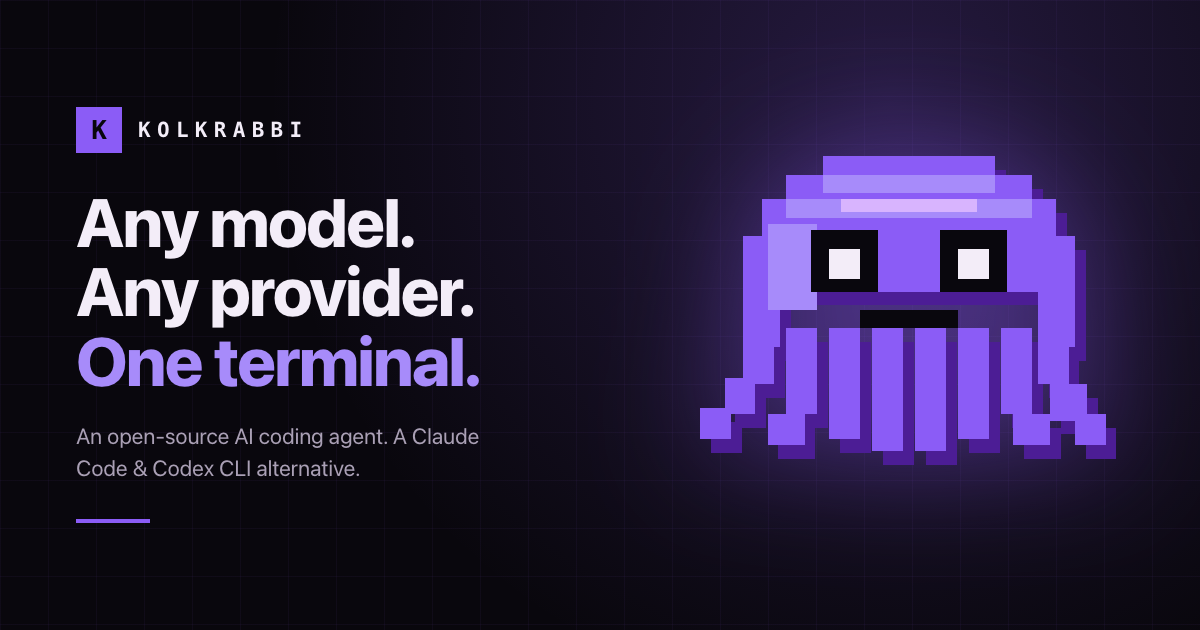
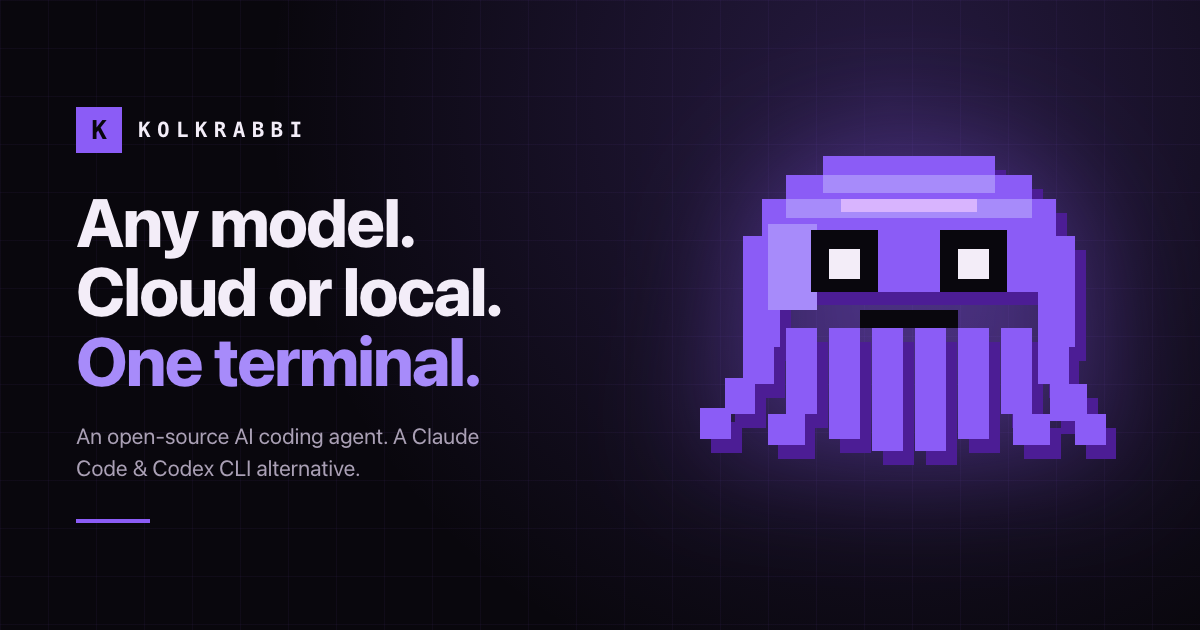
the subscription pages say what a subscription does not get you
The README and the capabilities page both state that a session still
expects a gateway key even when a Claude or ChatGPT plan answers the
turns. All three comparison pages sold "both subscriptions, one
terminal" without it, which is the kind of omission a reader only finds
out about after installing. The caveat is now in each subscription card
and in llms.txt, and a check fails any comparison page that mentions a
subscription without it.

Two smaller corrections in the same sweep. The pages claimed both
subscriptions could be used "in the same session"; what the capabilities
page actually asserts is switching between a gateway model and a plan,
mid-session. Two plans trading places looks likely from the same
machinery but is not documented, so the pages now claim exactly what the
project claims. And the link-preview card said "Any provider" while the
provider wall carries fourteen tiles, eight of them "No adapter yet" --
true of the README's tagline, but on an image with no wall beside it, it
promises something the site then contradicts. The card says "Any model.
Cloud or local. One terminal." now, and both halves work today.

Checked and left: "under 9 MB" against 8,969,330 measured bytes, and
"milliseconds to start" against a 5.3 ms p50.

Claude-Session: https://claude.ai/code/session_015RSPFsc4SWpkxTXfLBuuG2

Changed region(s): [[0.0617, 0.4222, 0.4317, 0.5429]]

diff --git a/site/compare/opencode.html b/site/compare/opencode.html
@@ -16,7 +16,7 @@
   <meta property="og:image" content="https://kolkrabbi.francomichetti.com/og.png">
   <meta property="og:image:width" content="1200">
   <meta property="og:image:height" content="630">
-  <meta property="og:image:alt" content="Kolkrabbi: any model, any provider, one terminal. A blocky purple pixel-art octopus.">
+  <meta property="og:image:alt" content="Kolkrabbi: any model, cloud or local, one terminal. A blocky purple pixel-art octopus.">
   <meta name="twitter:card" content="summary_large_image">
   <title>Kolkrabbi vs OpenCode — model-agnostic terminal coding agents compared</title>
   <link rel="icon" href="/favicon.svg" type="image/svg+xml">
@@ -122,7 +122,7 @@
         <article class="spec-card" data-status="available">
           <div class="spec-meta"><span class="status-badge">Kolkrabbi has it</span><span>SUBSCRIPTIONS</span></div>
           <h3>Both subscriptions, one terminal</h3>
-          <p>Kolkrabbi runs turns on your Claude plan through your own <code>claude</code> CLI and on your ChatGPT plan through your own Codex CLI, without ever holding a credential. OpenCode's own documentation says its Claude Pro/Max sign-in was removed in 1.3.0; it offers ChatGPT Plus, GitHub Copilot and GitLab Duo.</p>
+          <p>Kolkrabbi runs turns on your Claude plan through your own <code>claude</code> CLI and on your ChatGPT plan through your own Codex CLI, without ever holding a credential. OpenCode's own documentation says its Claude Pro/Max sign-in was removed in 1.3.0; it offers ChatGPT Plus, GitHub Copilot and GitLab Duo. One caveat, because it is the first thing you would hit: starting a session still expects a gateway key even when a plan answers the turns. That is on the list to remove, not a decision.</p>
         </article>
         <article class="spec-card" data-status="available">
           <div class="spec-meta"><span class="status-badge">Kolkrabbi has it</span><span>EFFORT</span></div>

diff --git a/site/compare/claude-code.html b/site/compare/claude-code.html
@@ -16,7 +16,7 @@
   <meta property="og:image" content="https://kolkrabbi.francomichetti.com/og.png">
   <meta property="og:image:width" content="1200">
   <meta property="og:image:height" content="630">
-  <meta property="og:image:alt" content="Kolkrabbi: any model, any provider, one terminal. A blocky purple pixel-art octopus.">
+  <meta property="og:image:alt" content="Kolkrabbi: any model, cloud or local, one terminal. A blocky purple pixel-art octopus.">
   <meta name="twitter:card" content="summary_large_image">
   <title>Kolkrabbi vs Claude Code — an open-source, model-agnostic alternative</title>
   <link rel="icon" href="/favicon.svg" type="image/svg+xml">
@@ -127,7 +127,7 @@
         <article class="spec-card" data-status="available">
           <div class="spec-meta"><span class="status-badge">Kolkrabbi has it</span><span>SUBSCRIPTIONS</span></div>
           <h3>Both subscriptions, one terminal</h3>
-          <p>If you pay for Claude and for ChatGPT, Kolkrabbi can use both in the same session. It never sees, stores or refreshes either credential: each vendor's own CLI does the login, and Kolkrabbi drives that CLI as a subprocess.</p>
+          <p>If you pay for Claude and for ChatGPT, Kolkrabbi can run turns on either, and switching between a gateway model and a plan mid-session keeps the transcript and the project context. It never sees, stores or refreshes either credential: each vendor's own CLI does the login, and Kolkrabbi drives that CLI as a subprocess. One caveat, because it is the first thing you would hit: starting a session still expects a gateway key even when a plan answers the turns. That is on the list to remove, not a decision.</p>
         </article>
         <article class="spec-card" data-status="available">
           <div class="spec-meta"><span class="status-badge">Kolkrabbi has it</span><span>EFFORT</span></div>

diff --git a/site/compare/codex-cli.html b/site/compare/codex-cli.html
@@ -16,7 +16,7 @@
   <meta property="og:image" content="https://kolkrabbi.francomichetti.com/og.png">
   <meta property="og:image:width" content="1200">
   <meta property="og:image:height" content="630">
-  <meta property="og:image:alt" content="Kolkrabbi: any model, any provider, one terminal. A blocky purple pixel-art octopus.">
+  <meta property="og:image:alt" content="Kolkrabbi: any model, cloud or local, one terminal. A blocky purple pixel-art octopus.">
   <meta name="twitter:card" content="summary_large_image">
   <title>Kolkrabbi vs Codex CLI — open-source terminal coding agents compared</title>
   <link rel="icon" href="/favicon.svg" type="image/svg+xml">
@@ -122,7 +122,7 @@
         <article class="spec-card" data-status="available">
           <div class="spec-meta"><span class="status-badge">Kolkrabbi has it</span><span>SUBSCRIPTIONS</span></div>
           <h3>Both subscriptions, one terminal</h3>
-          <p>Codex uses your ChatGPT plan. Kolkrabbi can use your ChatGPT plan <em>and</em> your Claude plan in the same session, by driving each vendor's own CLI as a subprocess. It never sees or stores either credential.</p>
+          <p>Codex uses your ChatGPT plan. Kolkrabbi can run turns on your ChatGPT plan <em>and</em> on your Claude plan, by driving each vendor's own CLI as a subprocess, and a gateway model and a plan can trade places mid-session. It never sees or stores either credential. One caveat, because it is the first thing you would hit: starting a session still expects a gateway key even when a plan answers the turns. That is on the list to remove, not a decision.</p>
         </article>
         <article class="spec-card" data-status="available">
           <div class="spec-meta"><span class="status-badge">Kolkrabbi has it</span><span>EFFORT</span></div>

diff --git a/site/local-ai-coding-agent.html b/site/local-ai-coding-agent.html
@@ -16,7 +16,7 @@
   <meta property="og:image" content="https://kolkrabbi.francomichetti.com/og.png">
   <meta property="og:image:width" content="1200">
   <meta property="og:image:height" content="630">
-  <meta property="og:image:alt" content="Kolkrabbi: any model, any provider, one terminal. A blocky purple pixel-art octopus.">
+  <meta property="og:image:alt" content="Kolkrabbi: any model, cloud or local, one terminal. A blocky purple pixel-art octopus.">
   <meta name="twitter:card" content="summary_large_image">
   <title>Local AI coding agent — run Kolkrabbi on Ollama, vLLM or any local model</title>
   <link rel="icon" href="/favicon.svg" type="image/svg+xml">

diff --git a/site/openrouter-coding-agent.html b/site/openrouter-coding-agent.html
@@ -16,7 +16,7 @@
   <meta property="og:image" content="https://kolkrabbi.francomichetti.com/og.png">
   <meta property="og:image:width" content="1200">
   <meta property="og:image:height" content="630">
-  <meta property="og:image:alt" content="Kolkrabbi: any model, any provider, one terminal. A blocky purple pixel-art octopus.">
+  <meta property="og:image:alt" content="Kolkrabbi: any model, cloud or local, one terminal. A blocky purple pixel-art octopus.">
   <meta name="twitter:card" content="summary_large_image">
   <title>OpenRouter coding CLI — every model behind one gateway, in your terminal</title>
   <link rel="icon" href="/favicon.svg" type="image/svg+xml">

diff --git a/site/ollama-coding-agent.html b/site/ollama-coding-agent.html
@@ -16,7 +16,7 @@
   <meta property="og:image" content="https://kolkrabbi.francomichetti.com/og.png">
   <meta property="og:image:width" content="1200">
   <meta property="og:image:height" content="630">
-  <meta property="og:image:alt" content="Kolkrabbi: any model, any provider, one terminal. A blocky purple pixel-art octopus.">
+  <meta property="og:image:alt" content="Kolkrabbi: any model, cloud or local, one terminal. A blocky purple pixel-art octopus.">
   <meta name="twitter:card" content="summary_large_image">
   <title>Ollama coding agent — a terminal agent on your own models, step by step</title>
   <link rel="icon" href="/favicon.svg" type="image/svg+xml">

diff --git a/site/index.html b/site/index.html
@@ -16,7 +16,7 @@
   <meta property="og:image" content="https://kolkrabbi.francomichetti.com/og.png">
   <meta property="og:image:width" content="1200">
   <meta property="og:image:height" content="630">
-  <meta property="og:image:alt" content="Kolkrabbi: any model, any provider, one terminal. A blocky purple pixel-art octopus.">
+  <meta property="og:image:alt" content="Kolkrabbi: any model, cloud or local, one terminal. A blocky purple pixel-art octopus.">
   <meta name="twitter:card" content="summary_large_image">
   <title>Kolkrabbi AI coding agent — Claude Code &amp; Codex CLI alternative</title>
   <link rel="icon" href="favicon.svg" type="image/svg+xml">

diff --git a/site/compare/index.html b/site/compare/index.html
@@ -16,7 +16,7 @@
   <meta property="og:image" content="https://kolkrabbi.francomichetti.com/og.png">
   <meta property="og:image:width" content="1200">
   <meta property="og:image:height" content="630">
-  <meta property="og:image:alt" content="Kolkrabbi: any model, any provider, one terminal. A blocky purple pixel-art octopus.">
+  <meta property="og:image:alt" content="Kolkrabbi: any model, cloud or local, one terminal. A blocky purple pixel-art octopus.">
   <meta name="twitter:card" content="summary_large_image">
   <title>Kolkrabbi compared — Claude Code, Codex CLI and OpenCode</title>
   <link rel="icon" href="/favicon.svg" type="image/svg+xml">

diff --git a/site/capabilities.html b/site/capabilities.html
@@ -13,7 +13,7 @@
   <meta property="og:image" content="https://kolkrabbi.francomichetti.com/og.png">
   <meta property="og:image:width" content="1200">
   <meta property="og:image:height" content="630">
-  <meta property="og:image:alt" content="Kolkrabbi: any model, any provider, one terminal. A blocky purple pixel-art octopus.">
+  <meta property="og:image:alt" content="Kolkrabbi: any model, cloud or local, one terminal. A blocky purple pixel-art octopus.">
   <meta property="og:site_name" content="Kolkrabbi">
   <meta name="twitter:card" content="summary_large_image">
   <link rel="canonical" href="https://kolkrabbi.francomichetti.com/capabilities">
